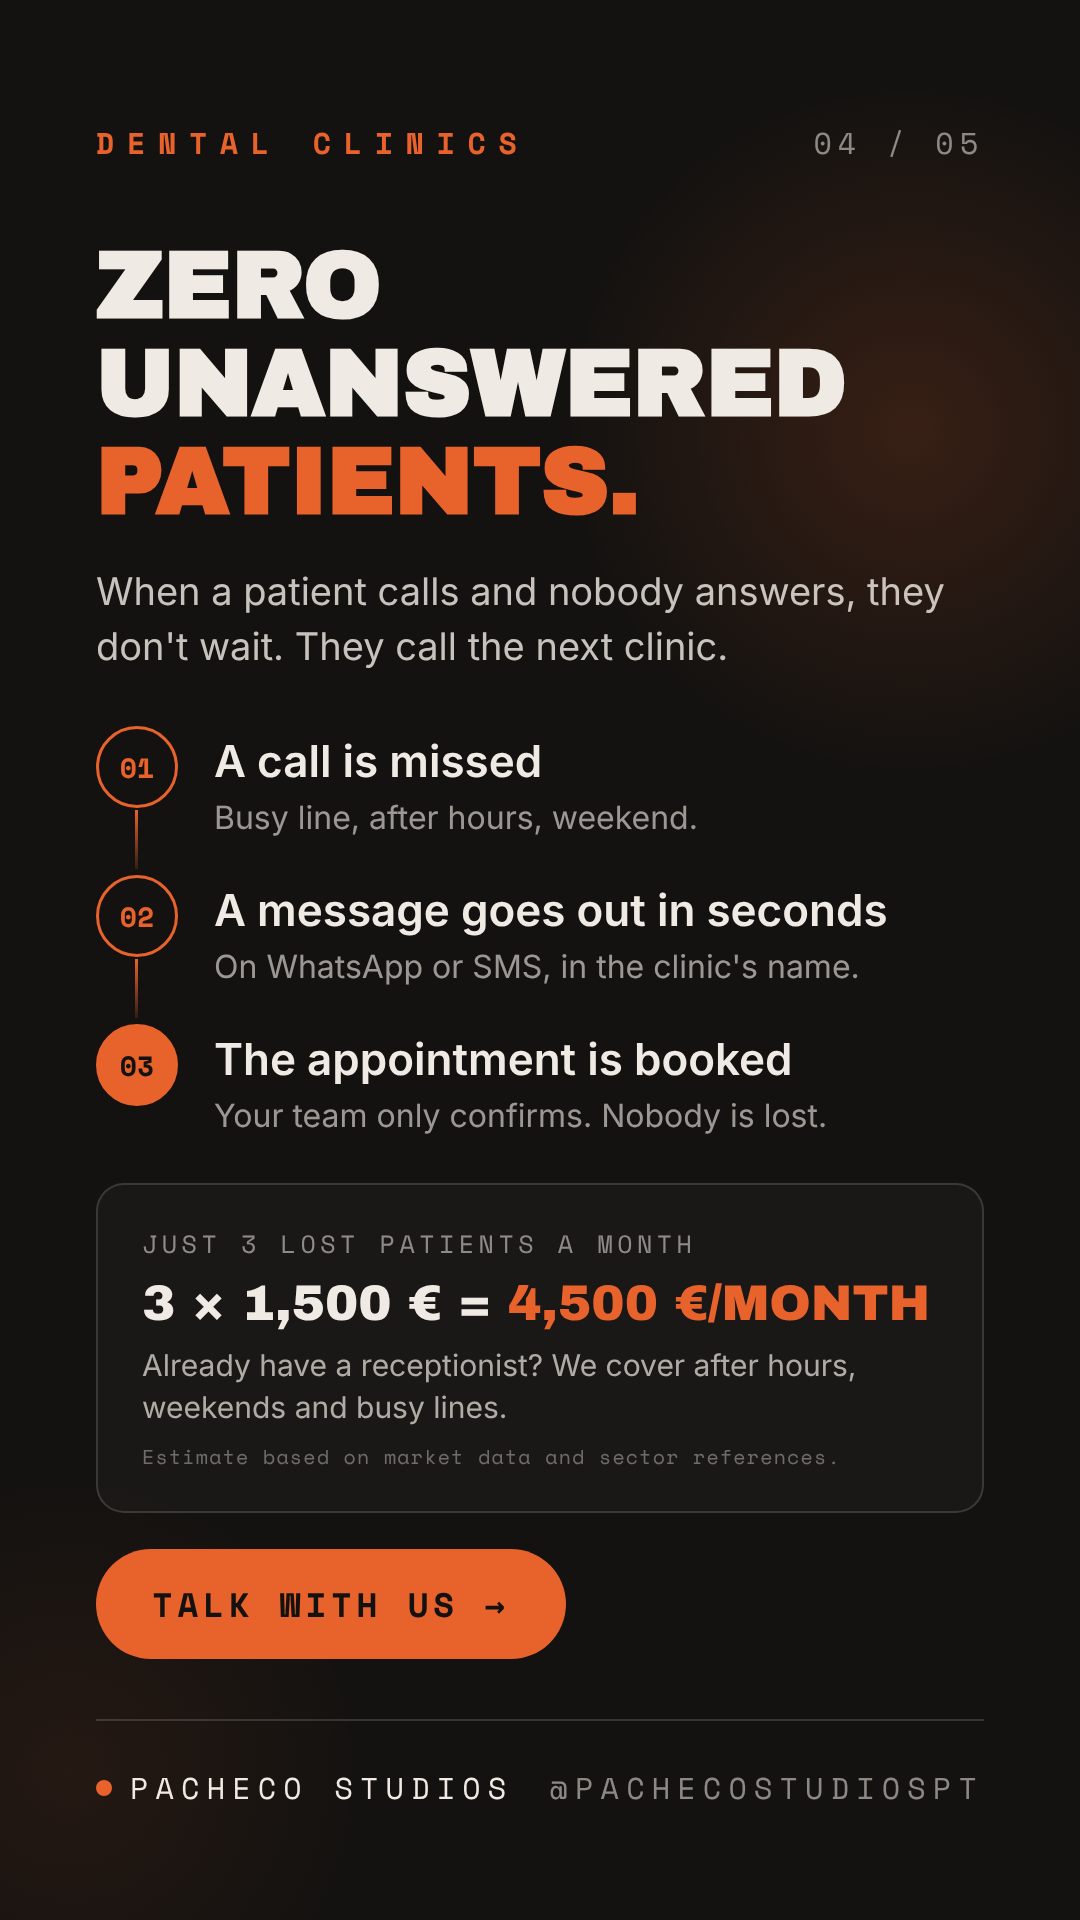
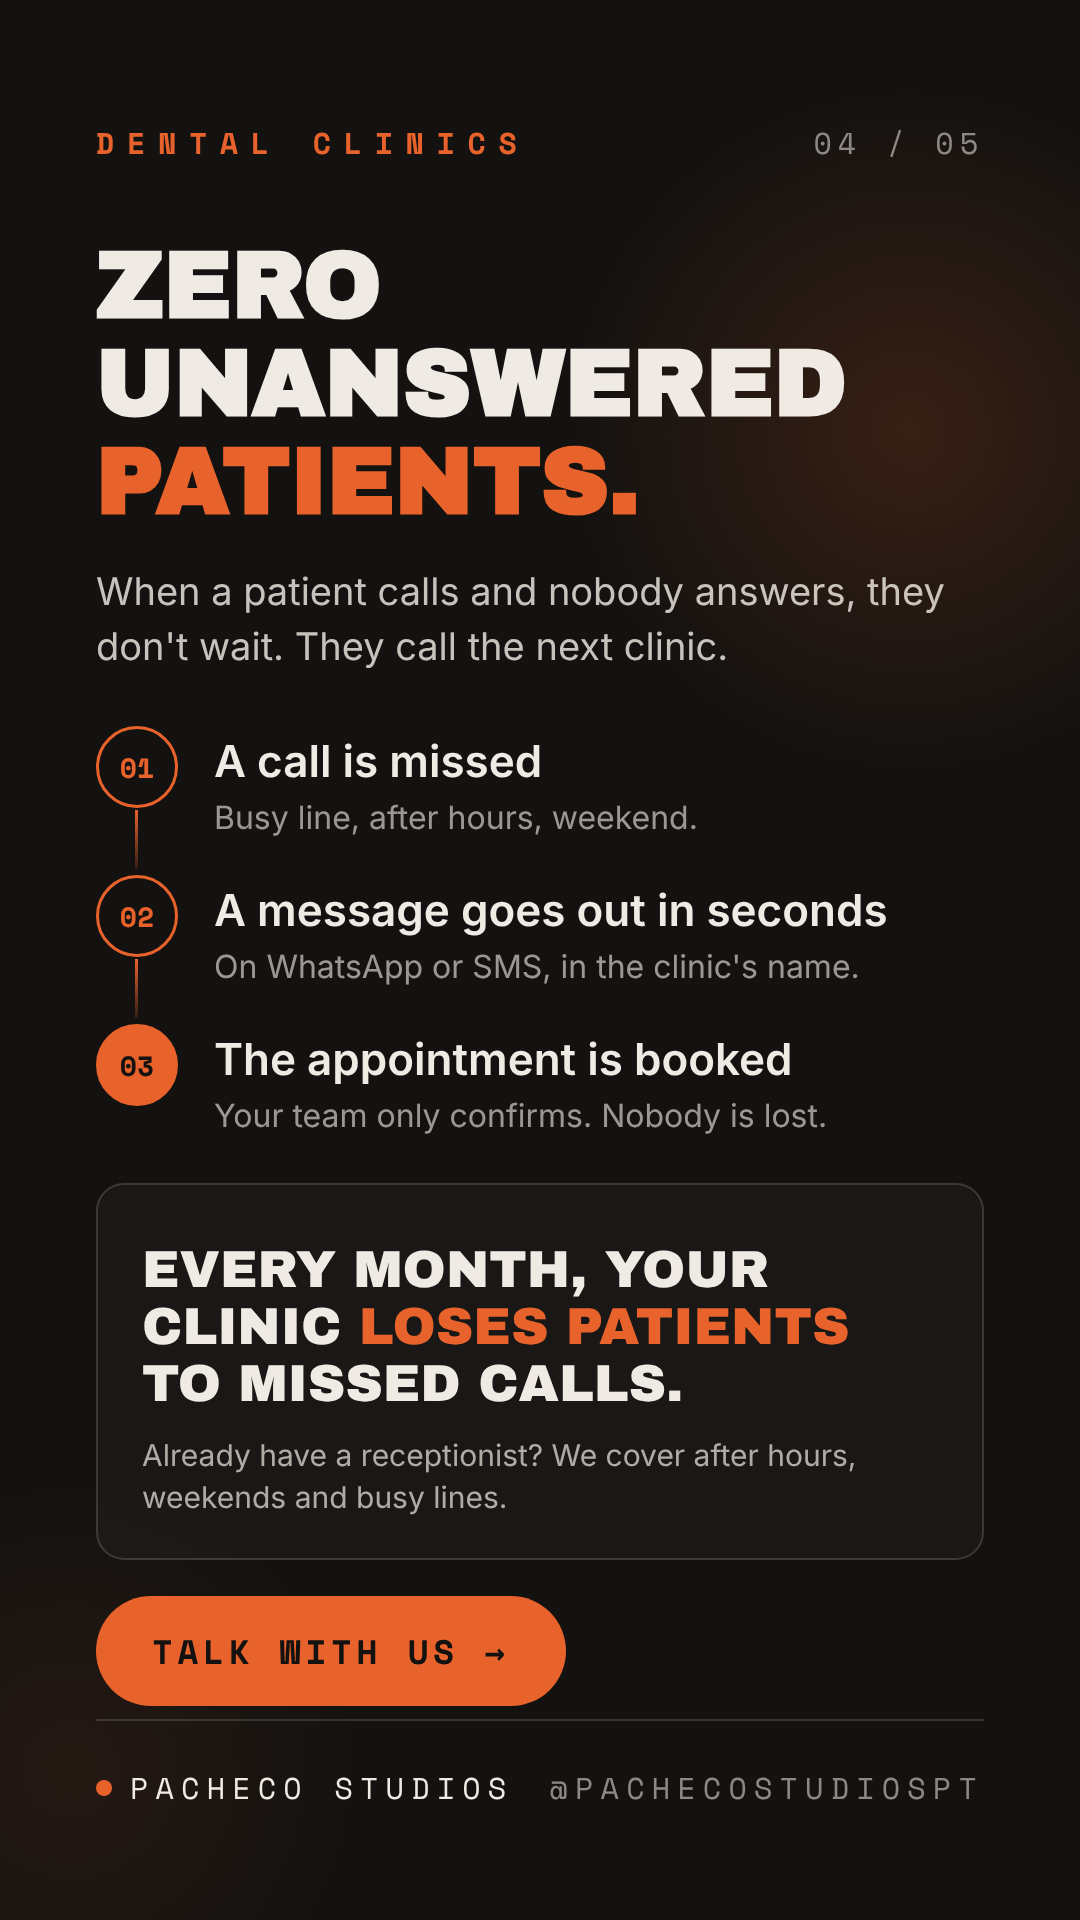
Destaques EN: slide dental sem conta, slide 05 com PT+RO e email robert@
Claude-Session: https://claude.ai/code/session_01FsuwmYDfHqravVMwy3uThB

Changed region(s): [[0.0917, 0.625, 0.8556, 0.9062]]

diff --git a/social/destaques-en-2026-10-31/05-talk.html b/social/destaques-en-2026-10-31/05-talk.html
@@ -28,8 +28,9 @@ h1{font-size:112px;margin-top:110px}
 .avail{margin-top:40px;font-family:"Space Mono";font-size:28px;letter-spacing:.14em;color:rgba(239,234,227,.7);text-transform:uppercase;display:flex;gap:18px;align-items:center}
 .contacts{margin-top:70px;border-top:2px solid var(--line)}
 .ct{display:flex;align-items:baseline;padding:40px 0;border-bottom:2px solid var(--line)}
-.ct .k{width:250px;font-family:"Space Mono";font-size:26px;letter-spacing:.18em;color:var(--dim);text-transform:uppercase}
-.ct .v{font-size:50px;font-weight:500}
+.ct .k{flex:none;width:230px;font-family:"Space Mono";font-size:26px;letter-spacing:.18em;color:var(--dim);text-transform:uppercase}
+.ct .v{font-size:46px;font-weight:500;white-space:nowrap}
+.cc{margin-left:20px;font-family:"Space Mono";font-size:24px;letter-spacing:.14em;color:var(--o);vertical-align:middle}
 .cta{margin-top:72px}
 .langs{margin-top:44px;font-family:"Space Mono";font-size:26px;letter-spacing:.14em;color:var(--dim);text-transform:uppercase}
 </style></head><body>
@@ -40,8 +41,9 @@ h1{font-size:112px;margin-top:110px}
 <h1>Let's <span class="o">talk.</span></h1>
 <div class="avail"><span class="dot"></span>Open for new projects · Same-day reply</div>
 <div class="contacts">
-  <div class="ct"><span class="k">WhatsApp</span><span class="v">+351 967 117 357</span></div>
-  <div class="ct"><span class="k">Email</span><span class="v">tomas@pachecost.com</span></div>
+  <div class="ct"><span class="k">WhatsApp</span><span class="v">+351 967 117 357<span class="cc">PT</span></span></div>
+  <div class="ct"><span class="k">WhatsApp</span><span class="v">+40 723 098 556<span class="cc">RO</span></span></div>
+  <div class="ct"><span class="k">Email</span><span class="v" style="font-size:40px">robert@teampachecostudios.com</span></div>
   <div class="ct"><span class="k">Site</span><span class="v">pachecost.com</span></div>
 </div>
 <div class="cta"><span class="btn">Talk with us →</span></div>

diff --git a/social/destaques-en-2026-10-31/04-dental-clinics.html b/social/destaques-en-2026-10-31/04-dental-clinics.html
@@ -34,8 +34,8 @@ h1{font-size:94px;margin-top:72px}
 .step .d{margin-top:8px;font-size:32px;color:rgba(239,234,227,.62);line-height:1.4}
 .card{margin-top:10px;border:2px solid var(--line);border-radius:28px;padding:40px 44px;background:rgba(239,234,227,.03)}
 .card .k{font-family:"Space Mono";font-size:25px;letter-spacing:.18em;text-transform:uppercase;color:var(--dim)}
-.card .v{margin-top:16px;font-family:"Archivo Black";font-size:50px;line-height:1.05;text-transform:uppercase}
-.card .m{margin-top:14px;font-size:30px;color:rgba(239,234,227,.7);line-height:1.4}
+.card .v{margin-top:16px;font-family:"Archivo Black";font-size:52px;line-height:1.1;text-transform:uppercase}
+.card .m{margin-top:22px;font-size:30px;color:rgba(239,234,227,.7);line-height:1.4}
 .note{margin-top:14px;font-family:"Space Mono";font-size:20px;letter-spacing:.06em;color:rgba(239,234,227,.4)}
 .cta{margin-top:36px}
 </style></head><body>
@@ -51,10 +51,8 @@ h1{font-size:94px;margin-top:72px}
   <div class="step"><span class="c">03</span><div><div class="t">The appointment is booked</div><div class="d">Your team only confirms. Nobody is lost.</div></div></div>
 </div>
 <div class="card">
-  <div class="k">Just 3 lost patients a month</div>
-  <div class="v">3 × 1,500 € = <span class="o">4,500 €/month</span></div>
+  <div class="v">Every month, your clinic <span class="o">loses patients</span> to missed calls.</div>
   <div class="m">Already have a receptionist? We cover after hours, weekends and busy lines.</div>
-  <div class="note">Estimate based on market data and sector references.</div>
 </div>
 <div class="cta"><span class="btn">Talk with us →</span></div>
 <div class="foot"><span class="brand"><span class="dot"></span>PACHECO STUDIOS</span><span class="ig">@PACHECOSTUDIOSPT</span></div>

diff --git a/social/destaques-en-2026-10-31/build.py b/social/destaques-en-2026-10-31/build.py
@@ -129,8 +129,8 @@ h1{font-size:94px;margin-top:72px}
 .step .d{margin-top:8px;font-size:32px;color:rgba(239,234,227,.62);line-height:1.4}
 .card{margin-top:10px;border:2px solid var(--line);border-radius:28px;padding:40px 44px;background:rgba(239,234,227,.03)}
 .card .k{font-family:"Space Mono";font-size:25px;letter-spacing:.18em;text-transform:uppercase;color:var(--dim)}
-.card .v{margin-top:16px;font-family:"Archivo Black";font-size:50px;line-height:1.05;text-transform:uppercase}
-.card .m{margin-top:14px;font-size:30px;color:rgba(239,234,227,.7);line-height:1.4}
+.card .v{margin-top:16px;font-family:"Archivo Black";font-size:52px;line-height:1.1;text-transform:uppercase}
+.card .m{margin-top:22px;font-size:30px;color:rgba(239,234,227,.7);line-height:1.4}
 .note{margin-top:14px;font-family:"Space Mono";font-size:20px;letter-spacing:.06em;color:rgba(239,234,227,.4)}
 .cta{margin-top:36px}
 """
@@ -143,10 +143,8 @@ s4 = page("DENTAL CLINICS", "04", """
   <div class="step"><span class="c">03</span><div><div class="t">The appointment is booked</div><div class="d">Your team only confirms. Nobody is lost.</div></div></div>
 </div>
 <div class="card">
-  <div class="k">Just 3 lost patients a month</div>
-  <div class="v">3 × 1,500 € = <span class="o">4,500 €/month</span></div>
+  <div class="v">Every month, your clinic <span class="o">loses patients</span> to missed calls.</div>
   <div class="m">Already have a receptionist? We cover after hours, weekends and busy lines.</div>
-  <div class="note">Estimate based on market data and sector references.</div>
 </div>
 <div class="cta"><span class="btn">Talk with us →</span></div>""", extra_css=s4_css)
 
@@ -156,18 +154,20 @@ h1{font-size:112px;margin-top:110px}
 .avail{margin-top:40px;font-family:"Space Mono";font-size:28px;letter-spacing:.14em;color:rgba(239,234,227,.7);text-transform:uppercase;display:flex;gap:18px;align-items:center}
 .contacts{margin-top:70px;border-top:2px solid var(--line)}
 .ct{display:flex;align-items:baseline;padding:40px 0;border-bottom:2px solid var(--line)}
-.ct .k{width:250px;font-family:"Space Mono";font-size:26px;letter-spacing:.18em;color:var(--dim);text-transform:uppercase}
-.ct .v{font-size:50px;font-weight:500}
+.ct .k{flex:none;width:230px;font-family:"Space Mono";font-size:26px;letter-spacing:.18em;color:var(--dim);text-transform:uppercase}
+.ct .v{font-size:46px;font-weight:500;white-space:nowrap}
+.cc{margin-left:20px;font-family:"Space Mono";font-size:24px;letter-spacing:.14em;color:var(--o);vertical-align:middle}
 .cta{margin-top:72px}
 .langs{margin-top:44px;font-family:"Space Mono";font-size:26px;letter-spacing:.14em;color:var(--dim);text-transform:uppercase}
 """
-def talk(phone):
+def talk():
     return page("TALK", "05", f"""
 <h1>Let's <span class="o">talk.</span></h1>
 <div class="avail"><span class="dot"></span>Open for new projects · Same-day reply</div>
 <div class="contacts">
-  <div class="ct"><span class="k">WhatsApp</span><span class="v">{phone}</span></div>
-  <div class="ct"><span class="k">Email</span><span class="v">tomas@pachecost.com</span></div>
+  <div class="ct"><span class="k">WhatsApp</span><span class="v">+351 967 117 357<span class="cc">PT</span></span></div>
+  <div class="ct"><span class="k">WhatsApp</span><span class="v">+40 723 098 556<span class="cc">RO</span></span></div>
+  <div class="ct"><span class="k">Email</span><span class="v" style="font-size:40px">robert@teampachecostudios.com</span></div>
   <div class="ct"><span class="k">Site</span><span class="v">pachecost.com</span></div>
 </div>
 <div class="cta"><span class="btn">Talk with us →</span></div>
@@ -176,8 +176,7 @@ def talk(phone):
 files = {
     "01-the-studio": s1, "02-services": s2, "03-partners": s3,
     "04-dental-clinics": s4,
-    "05-talk-RO": talk("+40 723 098 556"),
-    "05-talk-PT": talk("+351 967 117 357"),
+    "05-talk": talk(),
 }
 for name, html in files.items():
     (HERE / f"{name}.html").write_text(html, encoding="utf-8")
